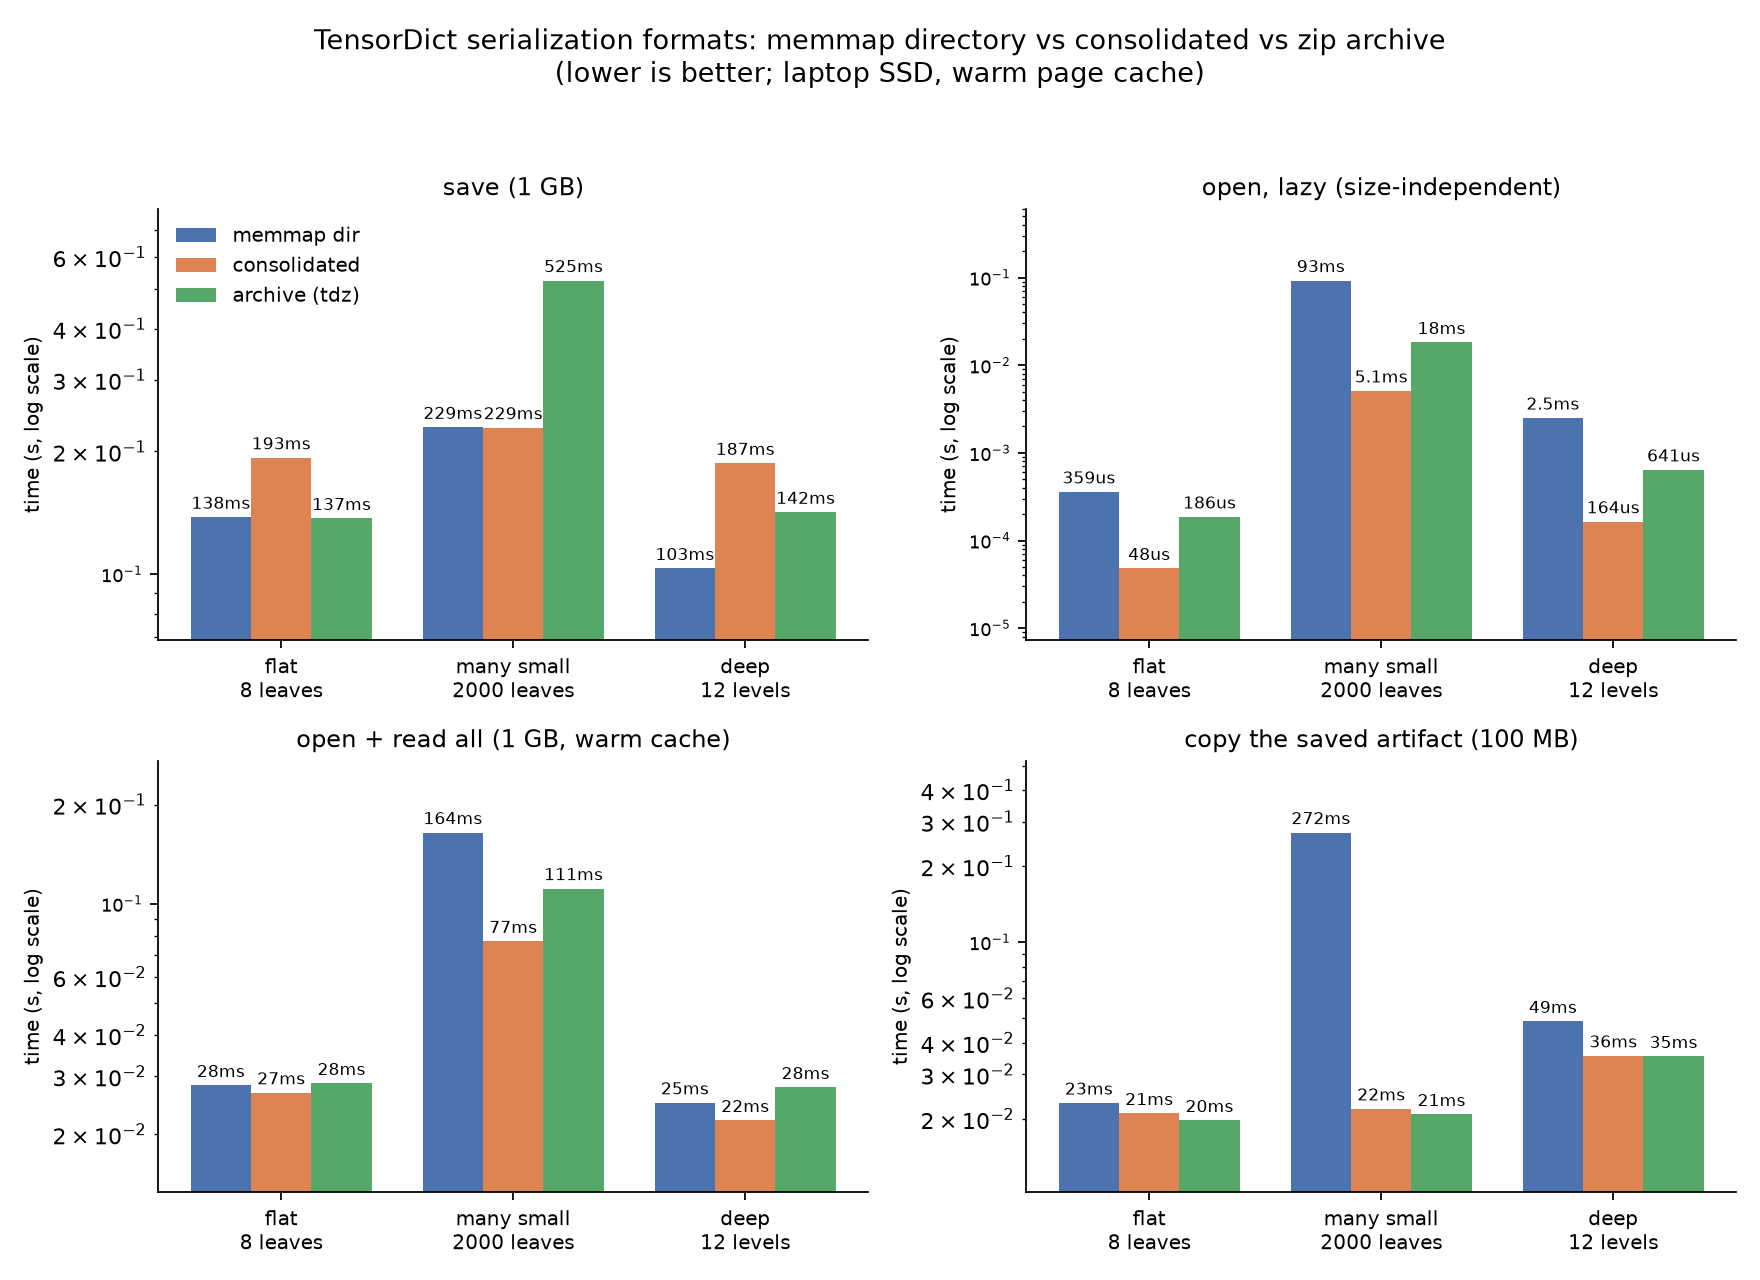
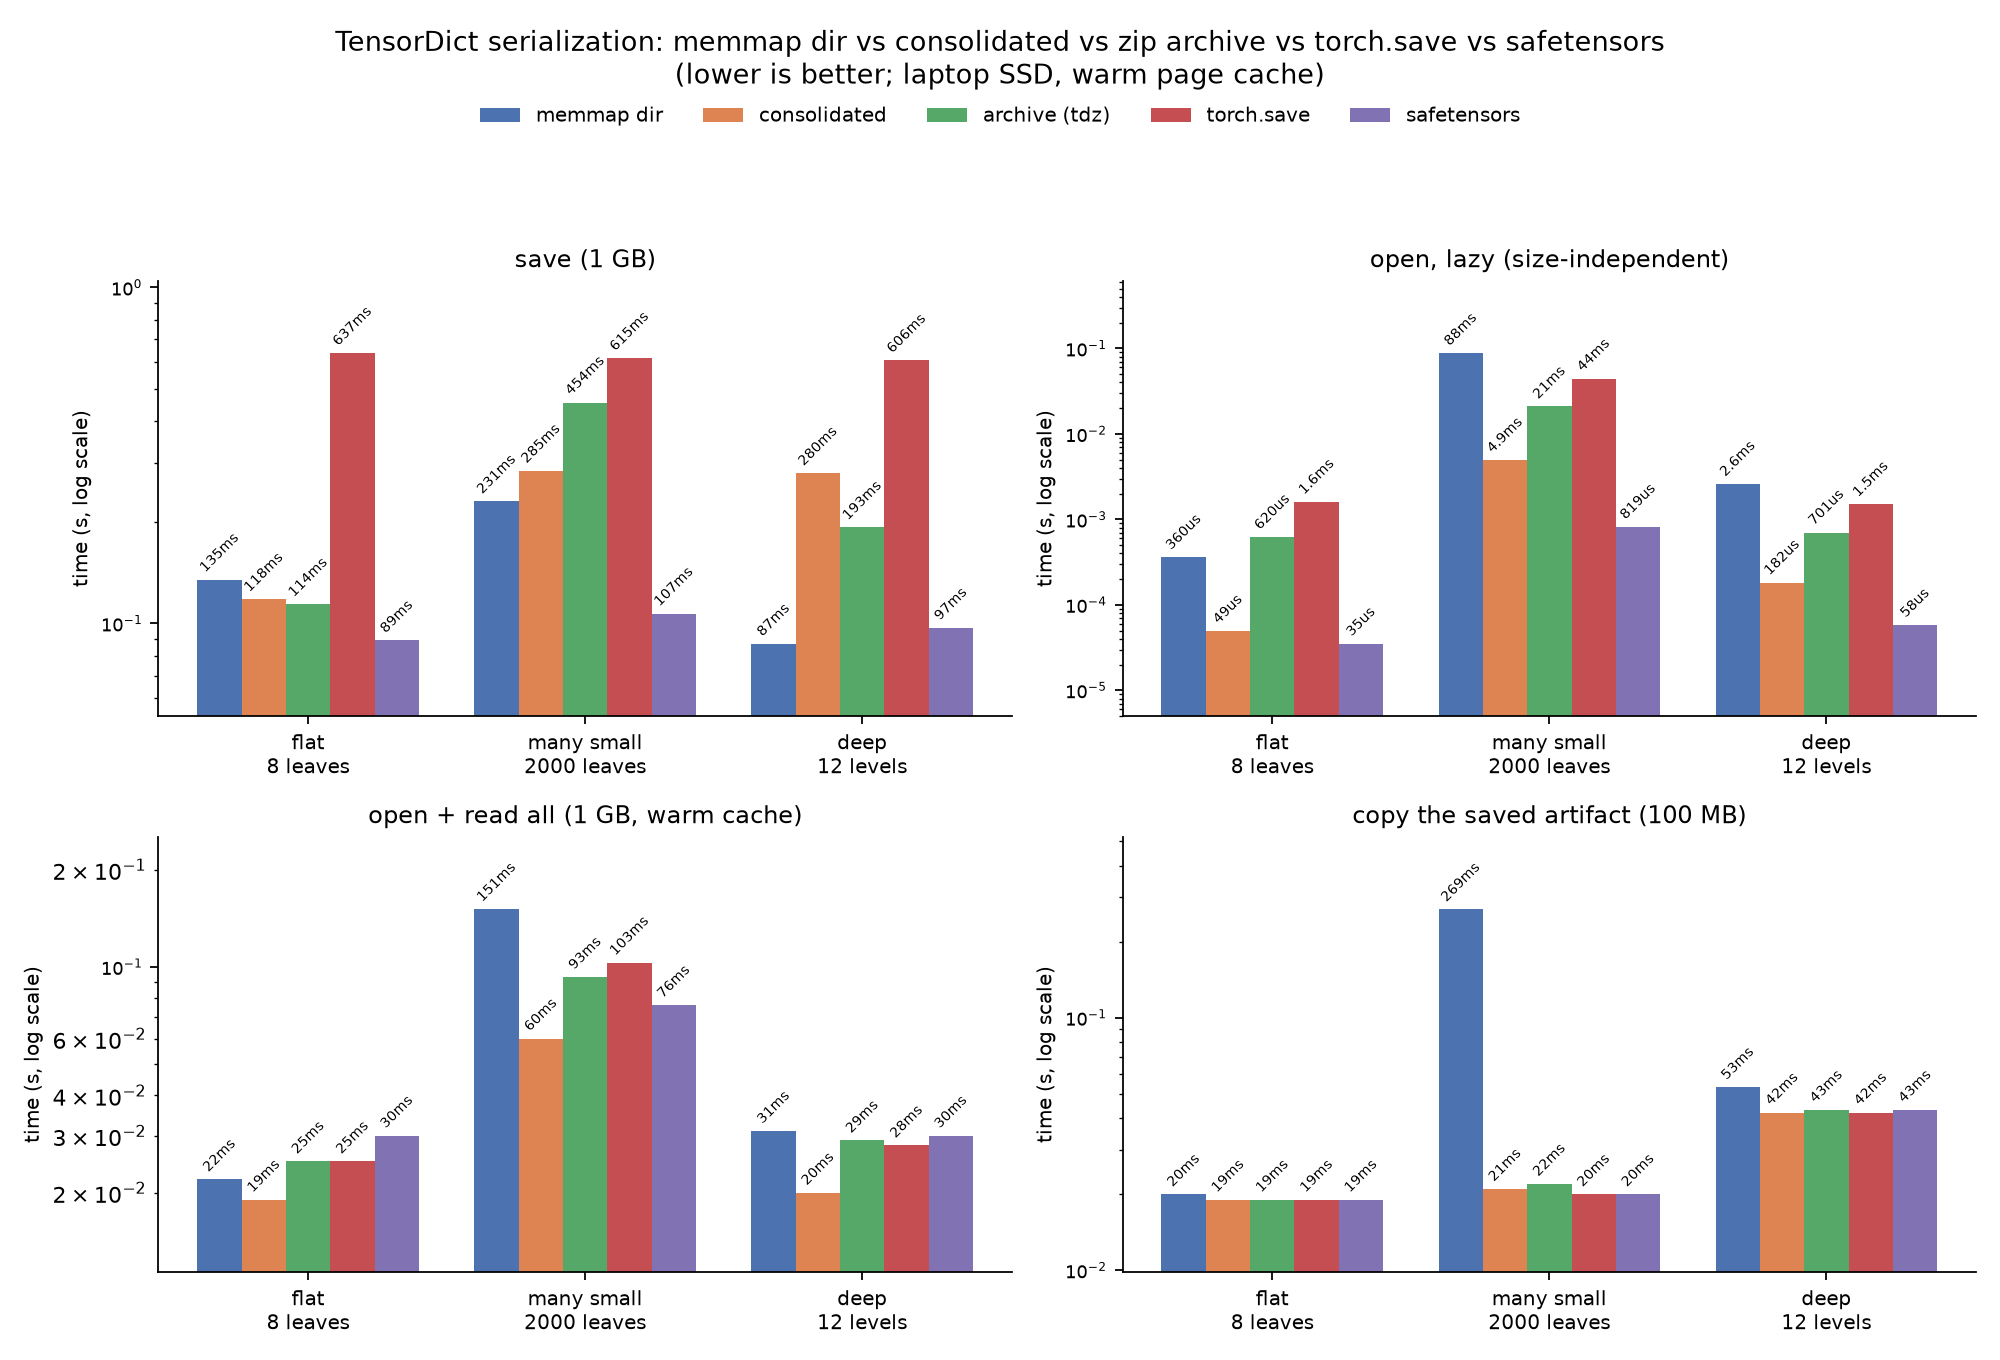
[Benchmark] Add torch.save and safetensors to the format comparison
The serialization benchmark now covers torch.save and safetensors next
to the three tensordict representations, both measured on their fastest
paths: flat tensor dicts (dotted keys), loaded with
torch.load(mmap=True, weights_only=True) and mmap-backed load_file
respectively, with the nested structure rebuilt on load. The docs
figure is regenerated with the five formats and the saving docs now
state the exact command to reproduce it.

diff --git a/benchmarks/scripts/serialization_formats_bench.py b/benchmarks/scripts/serialization_formats_bench.py
@@ -2,12 +2,21 @@
 #
 # This source code is licensed under the MIT license found in the
 # LICENSE file in the root directory of this source tree.
-"""Compares the on-disk tensordict representations: memmap directory, consolidated file and zip archive.
+"""Compares the on-disk tensordict representations with external formats.
+
+Formats: memmap directory, consolidated file, zip archive (``.tdz``),
+``torch.save`` and, when installed, safetensors. ``torch.save`` and
+safetensors are measured on their fastest path: a flat dict of tensors
+(keys flattened with ``"."``, since neither format represents tensordict
+structure natively), loaded with ``torch.load(mmap=True,
+weights_only=True)`` / mmap-backed ``load_file`` respectively, with the
+nested structure rebuilt on load.
 
 Measures, per (layout, total size, format):
 
 - save:  in-memory tensordict -> disk
-- open:  disk -> loaded tensordict (lazy: metadata + view construction)
+- open:  disk -> loaded tensordict (lazy where the format allows: metadata
+  parse + view construction)
 - read:  ``sum()`` over every leaf of a freshly opened tensordict (forces
   page-in; warm page cache since the files were just written)
 - copy:  duplicating the on-disk artifact (``cp -R`` equivalent)
@@ -35,11 +44,25 @@ import torch
 from tensordict import pack_memmap, TensorDict
 
 _has_matplotlib = importlib.util.find_spec("matplotlib") is not None
+_has_safetensors = importlib.util.find_spec("safetensors") is not None
 
 MB = 1024 * 1024
 
-FORMATS = ["memmap dir", "consolidated", "archive (tdz)"]
-COLORS = ["#4C72B0", "#DD8452", "#55A868"]
+FORMAT_KEYS = ["dir", "cons", "tdz", "pt"] + (["sft"] if _has_safetensors else [])
+FORMAT_NAMES = {
+    "dir": "memmap dir",
+    "cons": "consolidated",
+    "tdz": "archive (tdz)",
+    "pt": "torch.save",
+    "sft": "safetensors",
+}
+FORMAT_COLORS = {
+    "dir": "#4C72B0",
+    "cons": "#DD8452",
+    "tdz": "#55A868",
+    "pt": "#C44E52",
+    "sft": "#8172B3",
+}
 
 
 def make_flat_large(total_bytes):
@@ -99,6 +122,11 @@ def read_all(td):
 
 
 def bench(root: Path):
+    if _has_safetensors:
+        # optional dependency: imported lazily on purpose
+        from safetensors import safe_open
+        from safetensors.torch import load_file, save_file
+
     results = []
     for lname, factory in LAYOUTS.items():
         for size in SIZES:
@@ -108,10 +136,26 @@ def bench(root: Path):
             base.mkdir()
             d_dir, d_cons, d_tdz = base / "dir", base / "c.mmap", base / "d.tdz"
 
+            d_pt = base / "t.pt"
+            d_sft = base / "m.safetensors"
+
             row = {"layout": lname, "size_mb": size // MB}
             row["save_dir"] = timeit(lambda td=td, d=d_dir: td.memmap(d), reps)
             row["save_cons"] = timeit(lambda td=td, d=d_cons: td.consolidate(d), reps)
             row["save_tdz"] = timeit(lambda td=td, d=d_tdz: td.save(d), reps)
+
+            def save_pt(td=td, d=d_pt):
+                # fastest torch.save path: a flat dict of tensors can be
+                # loaded with weights_only=True (no object unpickling)
+                torch.save(dict(td.flatten_keys(".").items()), d)
+
+            row["save_pt"] = timeit(save_pt, reps)
+            if _has_safetensors:
+
+                def save_sft(td=td, d=d_sft, save_file=save_file):
+                    save_file(dict(td.flatten_keys(".").items()), d)
+
+                row["save_sft"] = timeit(save_sft, reps)
             d_packed = base / "packed.tdz"
 
             def pack(d_dir=d_dir, d_packed=d_packed):
@@ -119,6 +163,10 @@ def bench(root: Path):
                 pack_memmap(d_dir, d_packed)
 
             row["pack_only"] = timeit(pack, reps)
+
+            def load_pt(d=d_pt):
+                flat = torch.load(d, mmap=True, weights_only=True)
+                return TensorDict(flat, batch_size=[]).unflatten_keys(".")
 
             row["open_dir"] = timeit(
                 lambda d=d_dir: TensorDict.load_memmap(d), reps * 2
@@ -129,6 +177,17 @@ def bench(root: Path):
             row["open_tdz"] = timeit(
                 lambda d=d_tdz: TensorDict.load_memmap(d), reps * 2
             )
+            row["open_pt"] = timeit(load_pt, reps * 2)
+            if _has_safetensors:
+
+                def load_sft(d=d_sft, load_file=load_file):
+                    return TensorDict(load_file(d), batch_size=[]).unflatten_keys(".")
+
+                def open_sft(d=d_sft, safe_open=safe_open):
+                    with safe_open(d, framework="pt") as f:
+                        return list(f.keys())
+
+                row["open_sft"] = timeit(open_sft, reps * 2)
 
             row["read_dir"] = timeit(
                 lambda d=d_dir: read_all(TensorDict.load_memmap(d)), reps
@@ -139,6 +198,9 @@ def bench(root: Path):
             row["read_tdz"] = timeit(
                 lambda d=d_tdz: read_all(TensorDict.load_memmap(d)), reps
             )
+            row["read_pt"] = timeit(lambda: read_all(load_pt()), reps)
+            if _has_safetensors:
+                row["read_sft"] = timeit(lambda: read_all(load_sft()), reps)
 
             dst = base / "copy_target"
 
@@ -154,6 +216,9 @@ def bench(root: Path):
             dst.mkdir(exist_ok=True)
             row["copy_cons"] = timeit(lambda d=d_cons: copy_file(d), reps)
             row["copy_tdz"] = timeit(lambda d=d_tdz: copy_file(d), reps)
+            row["copy_pt"] = timeit(lambda d=d_pt: copy_file(d), reps)
+            if _has_safetensors:
+                row["copy_sft"] = timeit(lambda d=d_sft: copy_file(d), reps)
 
             results.append(row)
             print(f"done: {lname.split(chr(10))[0]} @ {size // MB}MB", file=sys.stderr)
@@ -172,18 +237,17 @@ def human(t):
 def print_tables(results):
     for op in ("save", "open", "read", "copy"):
         print(f"\n=== {op} ===")
-        header = f"{'layout':<26}{'MB':>6} | {'dir':>8} {'consol':>8} {'tdz':>8}"
+        header = f"{'layout':<26}{'MB':>6} |"
+        for key in FORMAT_KEYS:
+            header += f" {FORMAT_NAMES[key].split(' ')[0]:>12}"
         if op == "save":
             header += f" {'pack-only':>10}"
         print(header)
         for r in results:
             layout = r["layout"].replace("\n", " ")
-            line = f"{layout:<26}{r['size_mb']:>6} | "
-            line += (
-                f"{human(r[f'{op}_dir']):>8} "
-                f"{human(r[f'{op}_cons']):>8} "
-                f"{human(r[f'{op}_tdz']):>8}"
-            )
+            line = f"{layout:<26}{r['size_mb']:>6} |"
+            for key in FORMAT_KEYS:
+                line += f" {human(r[f'{op}_{key}']):>12}"
             if op == "save":
                 line += f" {human(r['pack_only']):>10}"
             print(line)
@@ -202,23 +266,25 @@ def plot(results, out: str):
         "open + read all (1 GB, warm cache)": ("read", 1024),
         "copy the saved artifact (100 MB)": ("copy", 100),
     }
-    fig, axes = plt.subplots(2, 2, figsize=(11, 8))
+    fig, axes = plt.subplots(2, 2, figsize=(12.5, 8.5))
+    n_formats = len(FORMAT_KEYS)
     for ax, (title, (op, size_mb)) in zip(axes.flat, panels.items()):
         labels = list(LAYOUTS)
         values = np.array(
             [
-                [
-                    by_key[(lab, size_mb)][f"{op}_{fmt}"]
-                    for fmt in ("dir", "cons", "tdz")
-                ]
+                [by_key[(lab, size_mb)][f"{op}_{fmt}"] for fmt in FORMAT_KEYS]
                 for lab in labels
             ]
         )
         x = np.arange(len(labels))
-        width = 0.26
-        for i, (fmt_name, color) in enumerate(zip(FORMATS, COLORS)):
+        width = 0.8 / n_formats
+        for i, fmt in enumerate(FORMAT_KEYS):
             bars = ax.bar(
-                x + (i - 1) * width, values[:, i], width, label=fmt_name, color=color
+                x + (i - (n_formats - 1) / 2) * width,
+                values[:, i],
+                width,
+                label=FORMAT_NAMES[fmt],
+                color=FORMAT_COLORS[fmt],
             )
             for rect, v in zip(bars, values[:, i]):
                 ax.annotate(
@@ -228,7 +294,8 @@ def plot(results, out: str):
                     textcoords="offset points",
                     ha="center",
                     va="bottom",
-                    fontsize=7.5,
+                    fontsize=6.5,
+                    rotation=45,
                 )
         ax.set_yscale("log")
         ax.set_title(title, fontsize=11)
@@ -238,13 +305,22 @@ def plot(results, out: str):
         ax.margins(y=0.25)
         ax.spines["top"].set_visible(False)
         ax.spines["right"].set_visible(False)
-    axes.flat[0].legend(fontsize=9, frameon=False, loc="upper left")
+    handles, labels = axes.flat[0].get_legend_handles_labels()
+    fig.legend(
+        handles,
+        labels,
+        loc="upper center",
+        bbox_to_anchor=(0.5, 0.935),
+        ncols=n_formats,
+        fontsize=9,
+        frameon=False,
+    )
     fig.suptitle(
-        "TensorDict serialization formats: memmap directory vs consolidated vs zip archive\n"
-        "(lower is better; laptop SSD, warm page cache)",
+        "TensorDict serialization: memmap dir vs consolidated vs zip archive "
+        "vs torch.save vs safetensors\n(lower is better; laptop SSD, warm page cache)",
         fontsize=12,
     )
-    fig.tight_layout(rect=(0, 0, 1, 0.95))
+    fig.tight_layout(rect=(0, 0, 1, 0.9))
     fig.savefig(out, dpi=160)
     print(f"wrote {out}", file=sys.stderr)
 

diff --git a/docs/source/saving.rst b/docs/source/saving.rst
@@ -251,28 +251,36 @@ archive to tools that do verify them (``unzip``,
 :func:`~tensordict.unpack_memmap`, ...).
 
 How do the three on-disk representations (memmap directory, consolidated
-file, archive) compare speed-wise? All three load lazily through ``mmap``,
-so bulk read throughput is essentially identical; the differences are in the
-per-entry overheads. Opening scales with the number of entries and favors
-the single-file formats (one metadata parse instead of one file open per
-leaf). Saving an archive streams the tensor bytes into the file in a single
-pass and is comparable to a directory save, with a per-entry overhead that
-shows for many-small-leaf layouts. Copying the saved artifact is where
-archives shine: a directory pays per-file latency, which dominates for
+file, archive) compare speed-wise, including against ``torch.save`` and
+safetensors? All of these load lazily through ``mmap``, so bulk read
+throughput is essentially identical; the differences are in the per-entry
+overheads. Opening scales with the number of entries and favors the
+single-file formats (one metadata parse instead of one file open per leaf).
+Saving an archive streams the tensor bytes into the file in a single pass
+and is comparable to a directory save, with a per-entry overhead that shows
+for many-small-leaf layouts. Copying the saved artifact is where single
+files shine: a directory pays per-file latency, which dominates for
 many-small-leaf layouts on local disk and grows with round-trip time on
-network filesystems.
+network filesystems. Note that ``torch.save`` and safetensors are measured
+on their fastest paths (flat tensor dicts, ``torch.load(mmap=True,
+weights_only=True)`` and mmap-backed loading respectively) and do not
+represent tensordict structure natively: keys are flattened at save time
+and the nesting rebuilt at load time.
 
 .. figure:: _static/img/memmap_formats_benchmark.png
    :width: 100%
    :alt: Barplots comparing save, open, read and copy times of memmap
-         directories, consolidated files and zip archives across three
-         tensordict layouts.
+         directories, consolidated files, zip archives, torch.save files
+         and safetensors files across three tensordict layouts.
 
    Serialization timings across layouts (log scale, lower is better),
    measured on a laptop SSD with a warm page cache. ``flat``: 8 large
    leaves; ``many small``: 2000 leaves in 100 nested groups; ``deep``: a
-   12-level nesting chain with 48 leaves. Reproducible with
-   ``benchmarks/scripts/serialization_formats_bench.py``.
+   12-level nesting chain with 48 leaves. Reproduce (and re-render this
+   figure) with::
+
+       python benchmarks/scripts/serialization_formats_bench.py \
+           --plot docs/source/_static/img/memmap_formats_benchmark.png
 
 Consolidated serialization
 --------------------------
